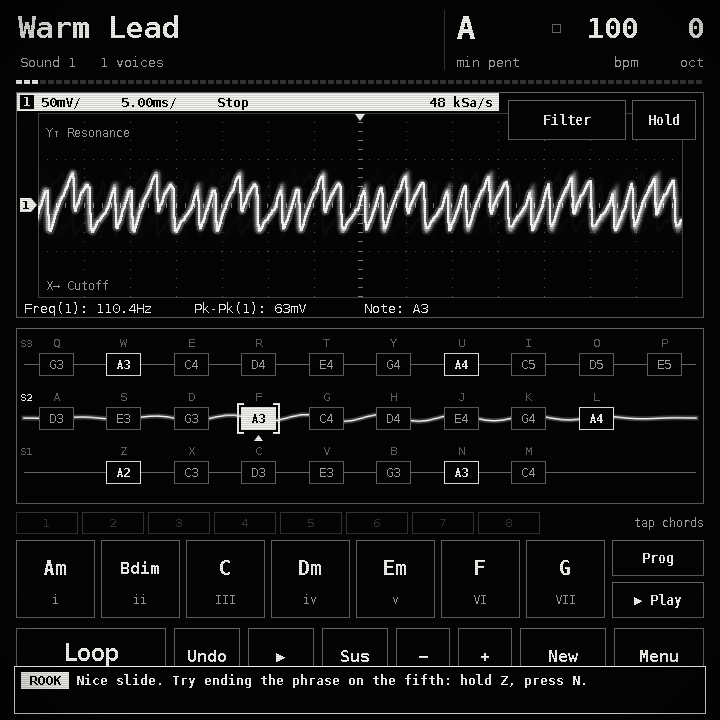
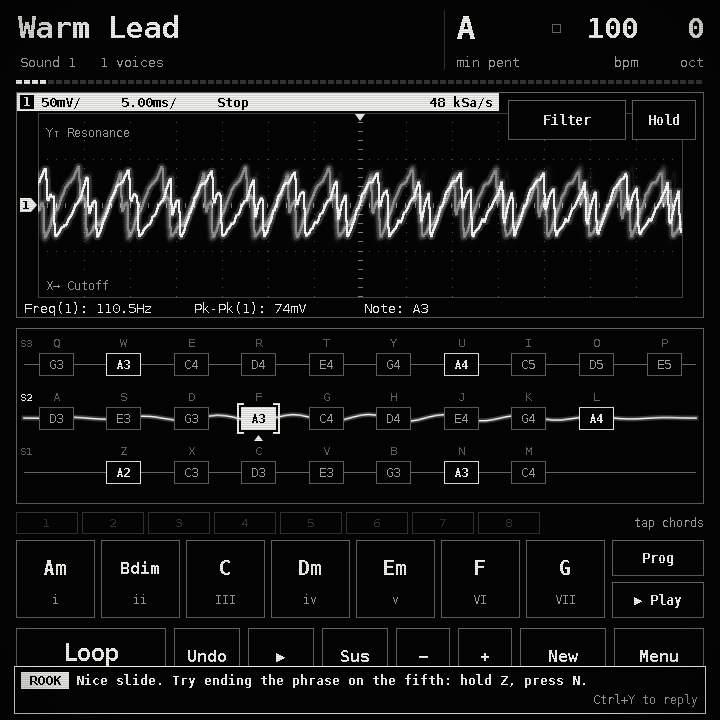
Docs, pictures and version 0.12.0 for guided help; ticker steps aside for a highlight

diff --git a/app/selftest.cpp b/app/selftest.cpp
@@ -1279,6 +1279,13 @@ int runSelfTest(MainWindow &w, Instrument &inst, AudioOut &audio, const QString 
             w.chatAdd("rook", "And another one.", "say", false);
             check(w.chatUnreadCount() == unread && !w.chatTickerShowing(), "with the dock open there is no ticker and nothing counts as unread");
             w.dockClose();
+            { // the ticker does not cover a highlight: it moves to the top
+                QStringList unk; w.refreshZones(); w.setHighlight({"loop_pedal"}, QString(), 20000, unk);
+                w.chatAdd("rook", "Look at the loop pedal.", "say", false); w.shot();
+                check(w.zoneRect("ticker").top() < 100 && !w.zoneRect("ticker").intersects(w.zoneRect("loop_pedal")), "when a highlight is at the bottom the ticker moves to the top");
+                w.clearHighlight(); w.shot();
+                check(w.zoneRect("ticker").top() > 600, "and is back at the bottom without one");
+            }
             w.chatAdd("rook", "Ticker again.", "say", false); w.shot();
             ctrl(Qt::Key_Y);
             check(w.dockIsOpen() && w.dockHasFocus(), "Ctrl+Y while the ticker shows also opens the dock");
@@ -1428,6 +1435,31 @@ int renderShots(MainWindow &w, Instrument &inst, const QString &dir) {
         w.chatAdd("rook", "Nice slide. Try ending the phrase on the fifth: hold Z, press N.", "tip", false);
         for (int i = 0; i < 8; ++i) { w.shot(); wait(40); }
         w.shot().save(QString("%1/15-ticker.png").arg(dir));
+    }
+    {   // guided help: the dock on Synth with the octave buttons highlighted, a caption without the dock, the dock on Help
+        QStringList unk;
+        w.setPage(MainWindow::PG_PLAY);
+        wait(7300); w.refreshZones();   // the ticker has gone
+        w.setHighlight({"loop_pedal"}, "LOOP PEDAL", 20000, unk);
+        for (int i = 0; i < 6; ++i) { w.shot(); wait(40); }
+        w.shot().save(QString("%1/18-caption.png").arg(dir));
+        w.clearHighlight();
+        w.dockOpenFocus(); w.shot();
+        w.chatAdd("you", "what does octave do?", "say", true, "synth", {});
+        w.chatAdd("rook", "It moves every string up or down twelve notes. Tap + and play the same key again.", "say", false);
+        w.setHighlight({"octave"}, "OCTAVE", 20000, unk);
+        for (int i = 0; i < 6; ++i) { w.shot(); wait(40); }
+        w.shot().save(QString("%1/16-dock-synth.png").arg(dir));
+        w.clearHighlight(); w.dockClose();
+        w.setPage(MainWindow::PG_HELP); w.shot();
+        w.dockOpenFocus();
+        w.chatAdd("rook", "Here is the Loop pedal row: Enter starts a count-in, records, then plays and overdubs.", "say", false);
+        w.shot();
+        w.setHighlight({"help_row_loop_pedal_count_in_record_play_ov"}, "LOOP PEDAL", 20000, unk);
+        for (int i = 0; i < 6; ++i) { w.shot(); wait(40); }
+        w.shot().save(QString("%1/17-dock-help.png").arg(dir));
+        w.clearHighlight(); w.dockClose();
+        w.setPage(MainWindow::PG_PLAY);
     }
     {   // the Glitch mapping with a finger on the pad
         w.setPage(MainWindow::PG_PLAY);

diff --git a/app/guide.cpp b/app/guide.cpp
@@ -206,7 +206,7 @@ void MainWindow::paintHighlights() {
     QVector<QRectF> avoid;
     for (const QRectF &r : rects) avoid << inflated(r, 8);
     if (!dockR.isNull()) avoid << inflated(dockR, 4);
-    if (pg != PG_CHAT && !dockOpen && clock.elapsed() < tickerUntil) avoid << QRectF(12, 664, 696, 52);
+    if (pg != PG_CHAT && !dockOpen && clock.elapsed() < tickerUntil) avoid << QRectF(12, 2, 696, 52) << QRectF(12, 664, 696, 52);
     const QRectF z = rects[0], screen(2, 2, 716, 716);
     auto ok = [&](const QRectF &c) {
         if (!screen.contains(c)) return false;
@@ -345,7 +345,7 @@ void MainWindow::paintDock() {
     QString shown = chatDraft.size() > bc - 1 ? QString::fromUtf8("…") + chatDraft.right(bc - 2) : chatDraft;
     if (chatDraft.isEmpty()) {
         const QString hint = dockFocus ? QString("type to ask  (Esc: back to the keys)") : QString("%1+%2 or touch to type").arg(km.keyFor(A_COMMAND, false)).arg(km.keyFor(A_CHAT, true));
-        txt(box.adjusted(10, 0, -10, 0), fit(hint, 14, box.width() - 20), 14, LOW, Qt::AlignLeft | Qt::AlignVCenter);
+        txt(box.adjusted(10 + (dockFocus ? chW(15) : 0), 0, -10, 0), fit(hint, 14, box.width() - 20), 14, LOW, Qt::AlignLeft | Qt::AlignVCenter);
     } else txt(box.adjusted(10, 0, -10, 0), shown, 15, dockFocus ? INK : MID, Qt::AlignLeft | Qt::AlignVCenter, dockFocus);
     if (dockFocus && (clock.elapsed() / 500) % 2 == 0) {
         const qreal cx = box.x() + 10 + (chatDraft.isEmpty() ? 0 : shown.size() * chW(15));

diff --git a/app/chatpage.cpp b/app/chatpage.cpp
@@ -10,6 +10,7 @@
 using namespace pal;
 
 namespace {
+bool inflatedHit(const QRectF &zone, const QRectF &r) { return !zone.isNull() && zone.adjusted(-8, -8, 8, 8).intersects(r.adjusted(-3, -3, 3, 3)); }
 const int kKeep = 200;       // messages kept in the state file
 const int kDraftMax = 400;
 qreal dragLastY = 0;
@@ -187,7 +188,9 @@ void MainWindow::paintChat() {
 // over the page and takes no key, so playing carries on; touching it opens the chat dock to answer.
 void MainWindow::paintTicker() {
     if (pg == PG_CHAT || dockOpen || clock.elapsed() >= tickerUntil) return;
-    const QRectF r(16, 668, 688, 44);
+    QRectF r(16, 668, 688, 44);
+    for (const QString &n : highlightedZones()) // never over what is highlighted: then it goes to the top
+        if (inflatedHit(zoneRect(n), r)) { r = QRectF(16, 6, 688, 44); break; }
     frame(r.adjusted(-2, -2, 2, 2), INK, BG);
     const int cw = chW(13);
     QString name = ticker.from.toUpper();

diff --git a/app/main.cpp b/app/main.cpp
@@ -29,7 +29,7 @@ int main(int argc, char **argv) {
         else if (a == "--shots" && i + 1 < argc) shots = argv[++i];
         else if (a == "--render" && i + 1 < argc) render = argv[++i];
         else if (a == "--audio" && i + 1 < argc) prefer = argv[++i];
-        else if (a == "--version") { std::printf("vrequency 0.11.0\n"); return 0; }
+        else if (a == "--version") { std::printf("vrequency 0.12.0\n"); return 0; }
         else if (a == "--help" || a == "-h") {
             std::printf("venv-vrequency - pocket string synthesiser\n\n"
                         "  vrequency               start full screen\n"

diff --git a/docs/STATUS.md b/docs/STATUS.md
@@ -1,12 +1,12 @@
 # Status — what works, what is unproven, what is missing
 
-Version 0.11.0, 2026-11-14 (0.10.0 twice over, merged: kept beats on the Beat page — + New starts an empty beat and keeps the others, switched on the next bar line — and a Chat page with a control socket, so an AI copilot can play and edit the app live and talk with the player. 0.9.0 was 0.8.1 plus a lane mixer on the Track page: a level, mute, solo and meter for each of the four lanes, saved with the track and heard in an export. 0.8.1 was 0.8.0 plus a fix: the scope no longer takes a whole processor core to draw while sound plays. 0.8.0: 0.7.0 plus a sound picker on the Track page: a placed clip can play as one of eighteen new Keys, Guitar and Bass sounds, any of your own sounds or another kit, with an octave shift. 0.7.0 was 0.6.0 plus a Track page for arranging kept beats, chords and loops on lanes, with chop, cycle and export; the tabs now start with Track and the Play page is called Synth. 0.6.0 added the Beat page and Play last, 0.5.0 five sine-based "dream" sounds, 0.4.0 the Glitch touch-pad mapping). "Tested" below means an automated test measured it; it does **not** mean a
+Version 0.12.0, 2026-11-14 (0.12.0 is 0.11.0 plus guided help: the copilot can ring the controls it is talking about, the player answers from a chat dock on any page, and the Help page is redesigned around both. 0.11.0 was 0.10.0 twice over, merged: kept beats on the Beat page — + New starts an empty beat and keeps the others, switched on the next bar line — and a Chat page with a control socket, so an AI copilot can play and edit the app live and talk with the player. 0.9.0 was 0.8.1 plus a lane mixer on the Track page: a level, mute, solo and meter for each of the four lanes, saved with the track and heard in an export. 0.8.1 was 0.8.0 plus a fix: the scope no longer takes a whole processor core to draw while sound plays. 0.8.0: 0.7.0 plus a sound picker on the Track page: a placed clip can play as one of eighteen new Keys, Guitar and Bass sounds, any of your own sounds or another kit, with an octave shift. 0.7.0 was 0.6.0 plus a Track page for arranging kept beats, chords and loops on lanes, with chop, cycle and export; the tabs now start with Track and the Play page is called Synth. 0.6.0 added the Beat page and Play last, 0.5.0 five sine-based "dream" sounds, 0.4.0 the Glitch touch-pad mapping). "Tested" below means an automated test measured it; it does **not** mean a
 person heard it or pressed a physical key. Those checks are listed separately.
 
 ## Working and covered by automated tests
 
 `vrequency_tests` renders audio offline and measures it (522 checks). `vrequency --selftest` drives the real
-application with real key and touch events while the real audio thread runs (238 checks; one of them, "audio backend opened", can only pass with a real audio backend).
+application with real key and touch events while the real audio thread runs (311 checks; one of them, "audio backend opened", can only pass with a real audio backend).
 
 | Area | What the tests establish |
 |---|---|
@@ -30,6 +30,7 @@ application with real key and touch events while the real audio thread runs (238
 | Sound picker (app) | `I` and the Sound button open it on the kind the clip plays now; arrows change kind and stop at the ends; number keys and cells pick; a pick is one undo step and leaves the recorded sound in the clip; picking while nothing plays starts the clip alone, it is heard, and the beat lane stays silent meanwhile; a bass pick drops an octave; arrows and the stepper move the octave and stop at two; Only this one / Every; Backspace and As recorded; `Space` stops Hear; `Enter` and Done close it and stop the clip; a beat clip gets only the kits and no octave; undo and redo; picks read back the same from the state file |
 | Lane mixer (engine) | A new track plays every lane as recorded; a lane at 40 comes out a quarter of the level (12 dB down) for a loop lane, the chords lane and the beat lane alike, measured on the output, while the other lanes stay as they were; a muted lane is gone and its meter still; a soloed lane is the only one heard, and a muted lane stays quiet even when soloed; level 100 is 1.56 times (about 4 dB); every lane's meter moves while it plays |
 | Lane mixer (app) | `X` opens it in place of the tools; number keys and Left/Right choose a lane; Up/Down move the level by five; `0` puts it back to 80; M mutes and S solos; a fader drag sets the level and is one undo step; Reset; undo and redo of every change; `Esc` closes it; opening the sound picker closes it; the mix reads back the same from the state file |
+| Guided help (app) | `zones` lists every named zone of all nine pages with a rectangle and a label, and the list equals what is drawn; listing another page leaves the player where they are; every row of all four Help sections is a named zone (16/16/14/16). `highlight`: an alias (`octave`) and a prefix (`chord*`) expand; unknown names are reported while known ones highlight; a bright rule is drawn around the zone (pixel measured); the caption stays on screen and clear of the highlighted zones; it ends after its time, on `unhighlight`, and when the page changes (and does not return); `page` + highlight switch and highlight in one step; 12,000-odd hostile requests (wrong types, 40 names, a 500-character name, a label with control characters, out-of-range ms) are answered, none crashed. Dock: `Ctrl`+`Y` opens it with the keyboard without leaving the page; letters type and play no string; `Enter` sends with the next `seq` and wakes a waiting `chat_wait`; the message carries `page`, `focus` and `via` through `chat_poll` and `chat_wait`; `Esc` gives the keys back (a key plays again) and keeps the dock, `Esc` again closes it, then Esc is the old Esc; `Ctrl`+`Y` toggles focus; touch on the input, Send, Hide and Full; `Ctrl`+`Shift`+`Y` and the Chat page unchanged. The dock and the caption were tried over every zone shorter than 330 px of every page (more than 150) and never overlapped it: it shortens, then moves to the top; the ticker moves to the top for the same reason, and a touch on it opens the dock. The topic tag is set by a highlight, kept by a message within 5 s, and cleared by a later one or a page change. Help: Ask Rook and a tapped row open the dock with a starting question; the question goes out with the row as `focus`; all rows stay visible above the dock |
 | Control socket and chat | The socket starts, is `0600`, replaces a stale file from a crashed run and refuses to take over a live one; two clients at once; replies carry the request id. A note over the socket has the right pitch (measured with the scope on the output: string 0 degree 0 = 110 Hz, a degree on the middle string follows the scale, MIDI 81 = 880 Hz); it lets go by itself after its duration; the player's own keys slide it; panic empties every voice; a slide moves the pitch. 105 requests cover every command with a good and a refused argument (note, notes, chord, slide, release, panic, set_param, get_params, sound, save_favourite, scale, tempo, octave, bend, sustain, loop, backing, beat, track including a keep/place/play/export round trip, page, session, screenshot, the chat commands); state shows what they did; the export writes a WAV; the screenshot is a 720x720 PNG. Chat: chat_say shows on the page, in the ticker on another page, as an unread count and in `state`; letters typed with synthetic key events fill the input line and play no string, Backspace edits, Enter (or the Send button) sends; a pending chat_wait is answered the moment the message is sent (15 ms measured) while other clients are served, and times out with an empty list; chat_poll returns both directions; `Ctrl`+`Y` goes to Chat and back, `Esc` leaves; the history is in the state file and only the last 200 are kept. Hostile input: garbage, a JSON array, a 40,000-digit number, a 2 MiB line, deeply nested JSON, several requests in one write, a client that disconnects mid-line, and 7,623 requests with one wrongly typed or out-of-range argument for every command: all answered, none crashed, no events dropped, output inside full scale. The socket file is removed on stop |
 | Drawing and saving | With three notes sounding, every page redraws well inside a 40 ms frame (slowest in the test: Synth, about 11 ms); a kept clip is in the state file 2.5 s later without anything else being pressed |
 | Listening back | Play last starts the system player on the newest recording and the same button stops it (the test does not check what comes out of the speaker) |
@@ -60,6 +61,13 @@ when the window loses focus, the scope's frequency readout, trigger and auto-ran
 
 ## Needs a person — NOT verified
 
+Added in 0.12.0 (guided help):
+- **The dock on the real Q20 and screen.** Typing in the dock, `Esc` / `Esc` / `Ctrl`+`Y` with the real modifier keys, and whether `Ctrl`+`Shift`+`Y` reaches the app were tested only with synthetic key events. Whether the key to the dock feels natural while playing is unproven.
+- **Legibility and feel of the highlight.** The pulsing double rule and the caption tag are checked in rendered pictures only: is the pulse noticeable but not annoying on the real LCD at arm's length, and is the caption readable at 13 px?
+- **A real Rook driving it.** `highlight`, `zones` and the `page` / `focus` fields were exercised by the self-test's own client; the MCP server and the bridge that wakes Rook have not been updated or tried against them.
+- **Dock over the strings.** On the Synth page the dock covers the strings or the header while open; whether that is acceptable when Rook explains while you try to play (the keys do play, the screen does not show them) needs a person.
+- **Touch targets in the dock.** Hide and Full are 64 x 24 px; Help rows are 25 px high. Fingers may miss them.
+
 Added in 0.10.0 (the copilot):
 - **Typing feel on the Q20.** Typing was tested with synthetic key events only. Whether the real keyboard types
   comfortably (Shift for capitals, the symbol layer for digits and punctuation, key repeat), and whether `Ctrl`+`Y` reaches the app, is unproven.
@@ -84,6 +92,7 @@ Nobody has yet confirmed any of these. See the test list at the end of this file
 
 ## Partial or simplified, on purpose
 
+- **Guided help limits.** One highlight at a time (a new one replaces it); it is never saved. It rings zones that were drawn on the page being shown, so a control hidden inside a closed view (for example the Track page's mixer while the tools are showing) is unknown until that view is open. If a highlight reaches both ends of the screen the dock cannot avoid it and sits at the bottom in its smallest size over part of it. The caption may cover a neighbouring control briefly, but never the highlighted one. The dock covers the page's own bottom controls while open (Esc twice closes it). The Help page's rows are named from their description, so reworded text renames them.
 - **Black and white only.** States that used colour before are now shown by inversion (selected, sounding, recording),
   a double frame (armed: "pick a slot", a chord slot chosen for replacement, a drone note) or blinking (overdub, WAV recording).
 - **The Freq readout is the waveform's true repeat rate.** A sound with a sub-oscillator reads an octave below the note name

diff --git a/docs/CONTROL.md b/docs/CONTROL.md
@@ -155,7 +155,7 @@ is false).
 ```
 
 ### page
-`name`: track, synth, sound, beat, backing, tune, system, help or chat.
+`name`: track, synth, sound, beat, backing, tune, system, help or chat. Changing page clears any highlight.
 ```
 {"id":28,"cmd":"page","name":"chat"}
 ```
@@ -181,7 +181,7 @@ history survives restarts and the numbering carries on.
 ### chat_say
 `text` 1-2000 characters; `from` (default `"rook"`, up to 16 characters; `"you"` is the player and refused);
 `kind` `say` (default), `tip` or `ask`. Shows on the Chat page and, while the player is on another page, in a
-two-line ticker at the bottom of the screen for a few seconds (it takes no key and no touch).
+two-line ticker at the bottom of the screen for a few seconds (it takes no key; touching it opens the chat dock). The `Ctrl`+`Y` hotkey now opens the dock, see below.
 ```
 {"id":31,"cmd":"chat_say","from":"claude","kind":"ask","text":"Want a slower tempo?"}
 ```
@@ -201,6 +201,110 @@ empty `messages` list. Nothing else is blocked meanwhile, and several clients ca
 {"id":33,"cmd":"chat_wait","since":14,"timeout_ms":20000}
 ```
 While any chat_wait is pending, the Chat page says `copilot: listening`.
+
+## Guided help: pointing at the screen
+
+Every control on the screen is a named **zone**. An agent can ring the zones it is talking about, learn what
+exists on a page, and see the player's answer arrive from a small chat dock that opens over whatever page the
+player is on (`Ctrl`+`Y`), together with where the player was when they asked.
+
+### highlight
+`zones`: 1-16 zone names (each up to 48 characters); `label`: optional caption up to 40 characters (control
+characters become spaces); `ms`: how long, 100-30000 (default 8000); `page`: optional page to switch to
+**first, in the same step** (any page name as for `page`); `sub`: with `help`, which section of the Help page
+(`playing`, `commands`, `beat`, `track` or 0-3).
+
+The named zones of the page being shown get a pulsing double rule (two white lines, 2 px clear of the control).
+With a `label` a small caption tag sits next to the first one: always on screen, never over a highlighted zone,
+and never under the chat dock. A name can also be an **alias** (`octave` = `octave_down` + `octave_up`; `strings`,
+`tabs`, `chords`, `pads`) or end in `*` to mean every zone with that prefix (`chord*`). Names that do not exist
+on that page are returned in `unknown`; the others still highlight (if none exist, nothing is highlighted and
+`highlighted` is empty). The reply:
+```
+-> {"id":40,"cmd":"highlight","zones":["octave"],"label":"OCTAVE","ms":10000}
+<- {"id":40,"ok":true,"result":{"page":"synth","highlighted":["octave_down","octave_up"],"unknown":[],
+    "ms":10000,"caption":true,"dock":{"open":false}}}
+-> {"id":41,"cmd":"highlight","zones":["help_ask","nope"],"page":"help"}
+<- {"id":41,"ok":true,"result":{"page":"help","highlighted":["help_ask"],"unknown":["nope"],"ms":8000,"caption":false,"dock":{"open":false}}}
+```
+A highlight ends when its time is up, on `unhighlight`, or **when the player changes page** (issue it again
+if you want it back). If the chat dock is open it moves clear of the highlighted zones: shorter, then to the
+top of the screen, and the dock's header shows `▸ OCTAVE` (the label, or else the name asked for) while that is
+what is being discussed. A new agent message that follows a highlight within 5 seconds keeps that tag.
+
+### unhighlight
+Clears the highlight at once. The reply says how many zones were cleared.
+```
+{"id":42,"cmd":"unhighlight"}
+```
+
+### zones
+`page` (default: the page shown), `sub` for Help. Returns every named zone of that page as
+`{name, label, x, y, w, h}` (canvas pixels, 720 x 720) and `dock_open`; a zone the open dock covers has
+`covered_by_dock: true`. `label` is the text drawn on the control where there is one, else a readable name.
+Another page is drawn off-screen to list it: the player stays where they are and nothing is touched.
+```
+-> {"id":43,"cmd":"zones","page":"synth"}
+<- {"id":43,"ok":true,"result":{"page":"synth","dock_open":false,"zones":[{"name":"octave_up","label":"Octave up","x":396,"y":628,"w":54,"h":80}, ...]}}
+```
+The Track page lists what its current view shows (shelf and tools, Chop, sound picker or mixer).
+
+### help_focus (in state)
+```
+"help_focus":{"page":"synth","highlighted":["octave_down","octave_up"],"dock_open":true,"dock_focus":true,
+              "last_question_zone":"octave_down","topic":"OCTAVE"}
+```
+`last_question_zone` is the first focus zone of the last message the player sent. `topic` is what the dock's tag says.
+
+### What the player's message carries
+A message typed in the dock (or on the Chat page) is an ordinary chat message with the next `seq`; `chat_poll` and
+`chat_wait` return it with extra fields: `page` (where the player was: `synth`, `help`...), `focus` (the highlighted
+zones, else the zones the last agent message was about, else the control the player touched last on that page;
+possibly empty) and `via` (`dock` or `chat`). So an agent reads "asked on synth with octave_down, octave_up
+highlighted" and can answer about exactly that. Tapping a row on the Help page asks about that row: `focus`
+is the row's zone name.
+```
+{"seq":57,"from":"you","user":true,"text":"why does it jump so far?","page":"synth","focus":["octave_down","octave_up"],"via":"dock",...}
+```
+
+### The chat dock (what the player sees)
+`Ctrl`+`Y` on any page except Chat opens a dock over the bottom of the screen (the top, if something highlighted is
+down there), with the last few lines, an input and Send. The keyboard goes to it: letters type, `Enter` sends,
+`Esc` gives the keys back to the page and keeps the dock; `Esc` again closes it; `Ctrl`+`Y` toggles the
+keyboard while it is open; `Ctrl`+`Shift`+`Y` opens the full Chat page. A new agent message while the dock is
+closed shows the ticker, which can be touched (or `Ctrl`+`Y` pressed) to open the dock. Dock zones: `dock`, `dock_history`,
+`dock_input`, `dock_send`, `dock_full`, `dock_close`, `ticker`. They are not accepted by `highlight`.
+
+### Zone names
+
+Names are stable; add new ones rather than renaming. Names ending in a digit are numbered from 0 (`string0`
+lowest, `pad0` first drum, `bslot0` first progression slot...). The authoritative list for the current screen is
+`zones`.
+
+| Page | Zones |
+|---|---|
+| every page but Synth | `tab_track` `tab_synth` `tab_sound` `tab_beat` `tab_backing` `tab_tune` `tab_system` `tab_help` `tab_chat` |
+| synth | `hdr_sound` (name) `hdr_tune` (key, tempo, octave) `key_readout` `tempo_readout` `octave_readout` `xy` (scope pad) `xymap` `xyhold` `string0` `string1` `string2` `pslot0`-`pslot7` `chord0`-`chord6` `backmode` `backplay` `loop_pedal` `loop_undo` `loop_playstop` `sustain` `octave_down` `octave_up` `new_sound` `menu` |
+| sound | `slot0`-`slot9` `newsound` `mutate` `undosound` `slotsave` `fav` `deep` `param<N>` `deepprev` `deepnext` `favitem0`-`favitem5` `favprev` `favdel` |
+| beat | `pad0`-`pad7` `beatrec` `beatplay` `beaterase` `kit-` `kit+` `beatvol` `bpm3-` `bpm3+` `beatslot0`... `beatnew` `beatmore` |
+| backing | `bmode0`-`bmode2` `bstyle0`-`bstyle4` `bslot0`-`bslot7` `chord0`-`chord6` `bremove` `bclear` `bseventh` `bmetro` `chordbeats-/+` `arprate-/+` `bpm2-/+` `backvol` `bresync` |
+| tune | `root0`-`root11` `scale0`-`scale7` `oct-/+` `rowint-/+` `bendr-/+` `bpm-/+` `tap` `glidescale` `listen` `lkey` `ltempo` `lboth` `lnext` |
+| system | `volume` `loopvol` `xymap0`-`xymap5` `xyhold2` `chordrow` `recwav` `playlast` `savesession` `keytest` `session0`... `panic` `latency-/+` `factory` `quit` |
+| help | `help_section` `help_next` `help_ask` `help_back` and one `help_row_<description>` per row, e.g. `help_row_loop_pedal_count_in_record_play_ov`; four sections (`sub`), list them with `zones` |
+| chat | `chat_history` `chat_input` `chat_send` |
+| track (shelf and tools) | `shelf_clip0`-`shelf_clip4` `track_keep` `track_shelf_page` `track_ruler` `track_lanes` `track_place` `track_chop` `track_sound` `track_repeat` `track_remove` `track_play` `track_cycle` `track_length-/+` `track_export` `track_split` `track_join` `track_mute` `track_undo` `track_mixer` `track_view-/+` |
+| track (Chop) | `chop_strip` `chop_halves` `chop_beats` `chop_reset` `chop_done` `chop_move_left` `chop_move_right` `chop_mute_piece` `chop_repeat_piece` |
+| track (sound picker) | `sound_kind0`-`sound_kind4` `sound_cell0`-`sound_cell5` `sound_hear` `sound_octave-/+` `sound_scope` `sound_as_recorded` `sound_done` |
+| track (mixer) | `mixer_lane0`-`mixer_lane3` `mixer_fader0`-`mixer_fader3` `mixer_mute0`-`mixer_mute3` `mixer_solo0`-`mixer_solo3` `mixer_play` `mixer_reset` `mixer_done` |
+
+Renamed in 0.12.0 (old name -> new): `tab0`-`tab8` -> `tab_<page>`; `loop` -> `loop_pedal`; `loopundo` -> `loop_undo`;
+`loopstop` -> `loop_playstop`; `sus` -> `sustain`; `octdn` `octup` -> `octave_down` `octave_up`; `dice` -> `new_sound`;
+`keep` -> `track_keep`; `shelf<N>` -> `shelf_clip<N>`; `shelfpage` -> `track_shelf_page`; `ruler` `lanes` -> `track_ruler` `track_lanes`;
+`tplace tchop tsound trepeat tremove tplay tcycle tlen texport tsplit tjoin tmute tundo tmix tview` -> `track_place ... track_view`;
+`chalves cbeats creset cdone cleft cright cmute crepeat chopstrip` -> `chop_halves chop_beats chop_reset chop_done chop_move_left chop_move_right chop_mute_piece chop_repeat_piece chop_strip`;
+`skind<N> scell<N> shear soct sscope srec sdone` -> `sound_kind<N> sound_cell<N> sound_hear sound_octave sound_scope sound_as_recorded sound_done`;
+`mxlane<N> mxfader<N> mxmute<N> mxsolo<N> mxplay mxreset mxdone` -> `mixer_lane<N> ... mixer_done`; `chathist chatsend` -> `chat_history chat_send`;
+`helppage helpplay` -> `help_next help_back`. Zones added: `octave_readout` `key_readout` `tempo_readout`, `chat_input`, `help_*`, `dock*`, `ticker`.
 
 ## Errors you may see
 

diff --git a/docs/GUIDE.md b/docs/GUIDE.md
@@ -23,6 +23,7 @@ The short version is also built into the app: press `Ctrl`+`H`, or tap Menu and 
 14. [All the keys](#14-all-the-keys)
 15. [When something is wrong](#15-when-something-is-wrong)
 16. [Chat with a copilot](#16-chat-with-a-copilot)
+17. [Asking Rook while you play (the chat dock)](#17-asking-rook-while-you-play-the-chat-dock)
 
 ## 1. Start and quit
 
@@ -570,7 +571,7 @@ Commands, with `Ctrl` held:
 | `J` | Beat play / stop | `W` | Play last recording |
 | `I` | Beat Rec on / off | `Q` | Quit |
 | `H` | Help | `Space` | Track play / stop |
-| `Y` | Chat: jump to it and back | | |
+| `Y` | Chat dock: ask Rook on this page (`Shift`: the Chat page) | | |
 
 On the Beat page only:
 
@@ -627,17 +628,49 @@ switches it off, and then the Chat page simply stays quiet.
 - **Type** on the keyboard: on this page letters type instead of playing strings. `Enter` sends,
   `Backspace` deletes a letter, `Up` / `Down` (or a finger drag on the history) scroll, `Esc` leaves the page.
   The **Send** button sends by touch. `Tab` and the `Ctrl` commands still work.
-- **Hotkey**: `Ctrl`+`Y` jumps to Chat from any page, and the same keys take you back to where you were.
-  (It is bound as `chat` in `keymap.json`; the other `Ctrl` letters are unchanged.)
+- **Hotkey**: `Ctrl`+`Shift`+`Y` jumps to this page from any page, and `Ctrl`+`Y` here takes you back to where
+  you were. (On the other pages `Ctrl`+`Y` opens the chat dock instead, chapter 17. It is bound as `chat`
+  in `keymap.json`; the other `Ctrl` letters are unchanged.)
 - The copilot's messages have a white tag with its name; yours have an outlined `YOU`. A `?` after the
   name means it is asking you something, `tip` marks a suggestion.
 - **The ticker**: when the copilot says something while you are on another page, the message appears in a
   two-line strip at the bottom of the screen for about seven seconds, and the Chat tab shows how many are
-  unread (`Chat 2`). It never takes the keyboard or touch away, so you can keep playing; it does cover the
-  bottom row of controls while it shows.
+  unread (`Chat 2`). It never takes the keyboard away, so you can keep playing; it does cover the
+  bottom row of controls while it shows. Touch it, or press `Ctrl`+`Y`, to answer in the chat dock (chapter 17).
 - **`copilot: listening`** at the top right means a copilot is connected and waiting for you
   (it has asked for your messages in the last 45 seconds, or is waiting right now); otherwise it says
   `copilot: not connected`. Messages you type then wait for it: they are kept.
 - The last 200 messages are kept between runs.
 
 ![A message arriving while playing](shots/15-ticker.png)
+
+## 17. Asking Rook while you play (the chat dock)
+
+![The chat dock on the Synth page, with OCTAVE highlighted](shots/16-dock-synth.png)
+
+You do not have to leave the page you are on to talk to the copilot. Press `Ctrl`+`Y` on any page
+except Chat and a **dock** opens over the bottom of the screen: the last two or three messages, an
+input line and Send. The page behind it stays visible and keeps working above the dock.
+
+- **Keys.** `Ctrl`+`Y` opens the dock and gives it the keyboard: letters type (they do not play strings),
+  `Enter` sends, `Backspace` deletes, `Up` / `Down` scroll. `Esc` gives the keyboard back to the page and
+  leaves the dock showing, so the keys play again; `Esc` once more closes the dock. `Ctrl`+`Y` while the dock
+  is open switches the keyboard between the two. `Ctrl`+`Shift`+`Y` opens the full Chat page. By touch:
+  tap the input line to type, **Send**, **Full** (the Chat page), **Hide**.
+- **From the ticker.** When Rook speaks while the dock is closed, the ticker shows the message; touch it, or
+  press `Ctrl`+`Y`, to answer straight away.
+- **Pointing.** Rook can ring the controls it is talking about with a pulsing double outline, sometimes with a
+  small caption tag next to it. The dock's header then says what is being discussed (`▸ OCTAVE`). The highlight
+  goes away after a few seconds, or as soon as you change page. If the dock would cover what Rook points at, it
+  gets shorter or moves to the top of the screen. When you answer, your message tells Rook which page you
+  were on and what was highlighted, so "what does this do?" works.
+- **On the Help page** every row is touchable. Tap a row and the dock opens with the question already started
+  ("What does "Enter: loop pedal ..." do?"); press `Enter`. **Ask Rook** at the top opens the dock for the section you
+  are reading. Rook can highlight a row ("the Loop pedal row") while it explains.
+
+![The Help page with the dock, one row highlighted](shots/17-dock-help.png)
+
+![A caption tag on a highlighted control](shots/18-caption.png)
+
+Rook needs to be connected (the dock says `Rook is listening`); if it is not, your messages wait for it.
+The commands Rook uses are in [CONTROL.md](CONTROL.md).

diff --git a/README.md b/README.md
@@ -24,7 +24,7 @@ its own volts/div and time/div (they follow the signal and never change the pitc
 frequency and level. Touching it is the X-Y sound control.
 
 More pictures: [Track](docs/shots/10-track.png), [Chop](docs/shots/11-chop.png), [Picking a sound for a clip](docs/shots/12-sound.png), [Mixer](docs/shots/13-mixer.png), [Sound](docs/shots/1-sound.png), [Backing](docs/shots/2-backing.png), [Tune](docs/shots/3-tune.png),
-[System](docs/shots/4-system.png), [Help](docs/shots/5-help.png), [Key test](docs/shots/6-keytest.png), [Glitch](docs/shots/7-glitch.png), [Beat](docs/shots/9-beat.png), [Chat with a copilot](docs/shots/14-chat.png).
+[System](docs/shots/4-system.png), [Help](docs/shots/5-help.png), [Key test](docs/shots/6-keytest.png), [Glitch](docs/shots/7-glitch.png), [Beat](docs/shots/9-beat.png), [Chat with a copilot](docs/shots/14-chat.png), [the chat dock on Synth](docs/shots/16-dock-synth.png), [the dock on Help](docs/shots/17-dock-help.png), [a highlight caption](docs/shots/18-caption.png).
 
 ## Play it in ten seconds
 
@@ -76,7 +76,7 @@ The full how-to is [docs/GUIDE.md](docs/GUIDE.md). A short version is built in: 
   meter, saved with the track and heard in an export. Keys follow the usual shortcuts of desktop music programs (`Ctrl`+`T` split,
   `Ctrl`+`J` join, `Ctrl`+`R` repeat, `Ctrl`+`X` `C` `V`, `Ctrl`+`Z`, `Space` play).
 - **Copilot**: a Chat tab and a local control socket let an AI agent play and edit the app live while you talk to it
-  (`Ctrl`+`Y` jumps to the chat). Local Unix socket only, off with `--no-control`. See [docs/CONTROL.md](docs/CONTROL.md).
+  (`Ctrl`+`Y` opens a chat dock on whatever page you are on, so you can ask about the control Rook is pointing at without leaving it). Local Unix socket only, off with `--no-control`. See [docs/CONTROL.md](docs/CONTROL.md).
 - **Looper**: event-based (notes, slides, bends, XY moves, sound changes), count-in, bar-snapped,
   up to 64 bars, six layers, undo, stop/start, clear. Each layer keeps its own sound. Follows tempo.
 - **Saving**: sounds, favourites, sessions (settings + sounds + backing + loops + beat + track), WAV export and play-back of the last recording
@@ -100,9 +100,9 @@ machine. Nothing is installed system-wide and nothing starts at boot.
 Tests:
 
 ```bash
-./build/vrequency_tests                                   # 517 engine checks (offline rendering)
+./build/vrequency_tests                                   # 522 engine checks (offline rendering)
 ./build/vrequency_tests --bench                           # CPU at full polyphony
-QT_QPA_PLATFORM=offscreen ./build/vrequency --selftest    # 227 checks through the real app + audio thread
+QT_QPA_PLATFORM=offscreen ./build/vrequency --selftest    # 311 checks through the real app + audio thread
 QT_QPA_PLATFORM=offscreen ./build/vrequency --audio null --render docs/shots   # redraw the pictures
 ```
 
@@ -112,7 +112,7 @@ QT_QPA_PLATFORM=offscreen ./build/vrequency --audio null --render docs/shots   #
 |---|---|
 | `core/` | The engine, no GUI or device dependencies: `voice.h` (synth voice), `fx.h`, `scale.h`, `instrument.*` (strings, backing, looper, mixer), `drums.*` (the three kits), `track.cpp` (clips, lanes, chopping, picked sounds, track playback), `sounds.*` (the Keys, Guitar and Bass shelf), `presets.*` (sounds, randomiser), `analysis.*` (key/tempo) |
 | `audio/` | PipeWire backend (C), ALSA fallback, silent clock |
-| `app/` | Qt 6 interface, one custom-painted widget: `mainwindow.*` (pages, input, actions), `trackpage.cpp` (the Track page), `scope.cpp` (the oscilloscope), `chatpage.cpp` (the Chat page and ticker), `control.*` (the control socket), `palette.h`, key map, files, self-test |
+| `app/` | Qt 6 interface, one custom-painted widget: `mainwindow.*` (pages, input, actions), `trackpage.cpp` (the Track page), `scope.cpp` (the oscilloscope), `chatpage.cpp` (the Chat page and ticker), `guide.cpp` (highlights, the chat dock, the zone catalogue), `control.*` (the control socket), `palette.h`, key map, files, self-test |
 | `tests/` | Engine tests and benchmark |
 | `docs/CONTROL.md` | The control-socket protocol: every command with an example |
 | `docs/HARDWARE.md` | What was found on this Hackberry and what it means |
